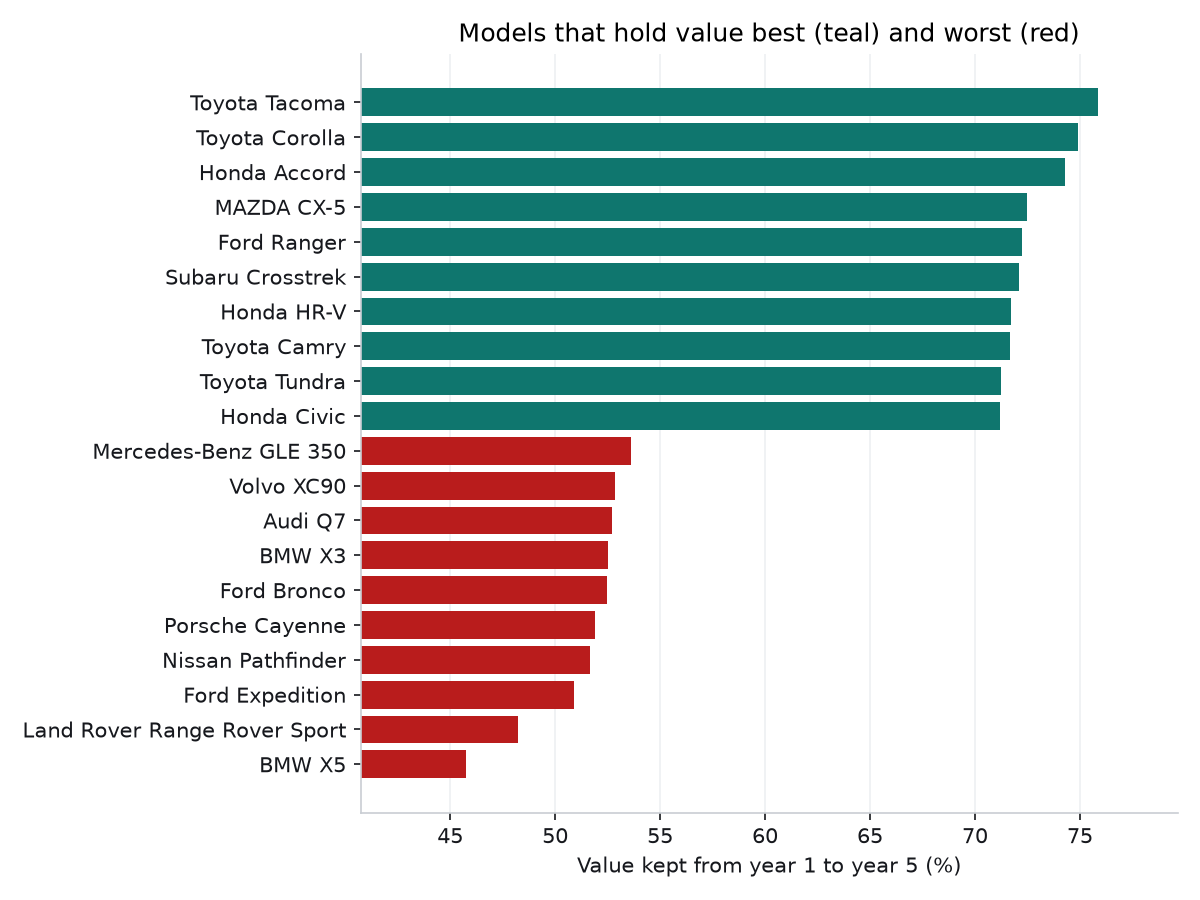
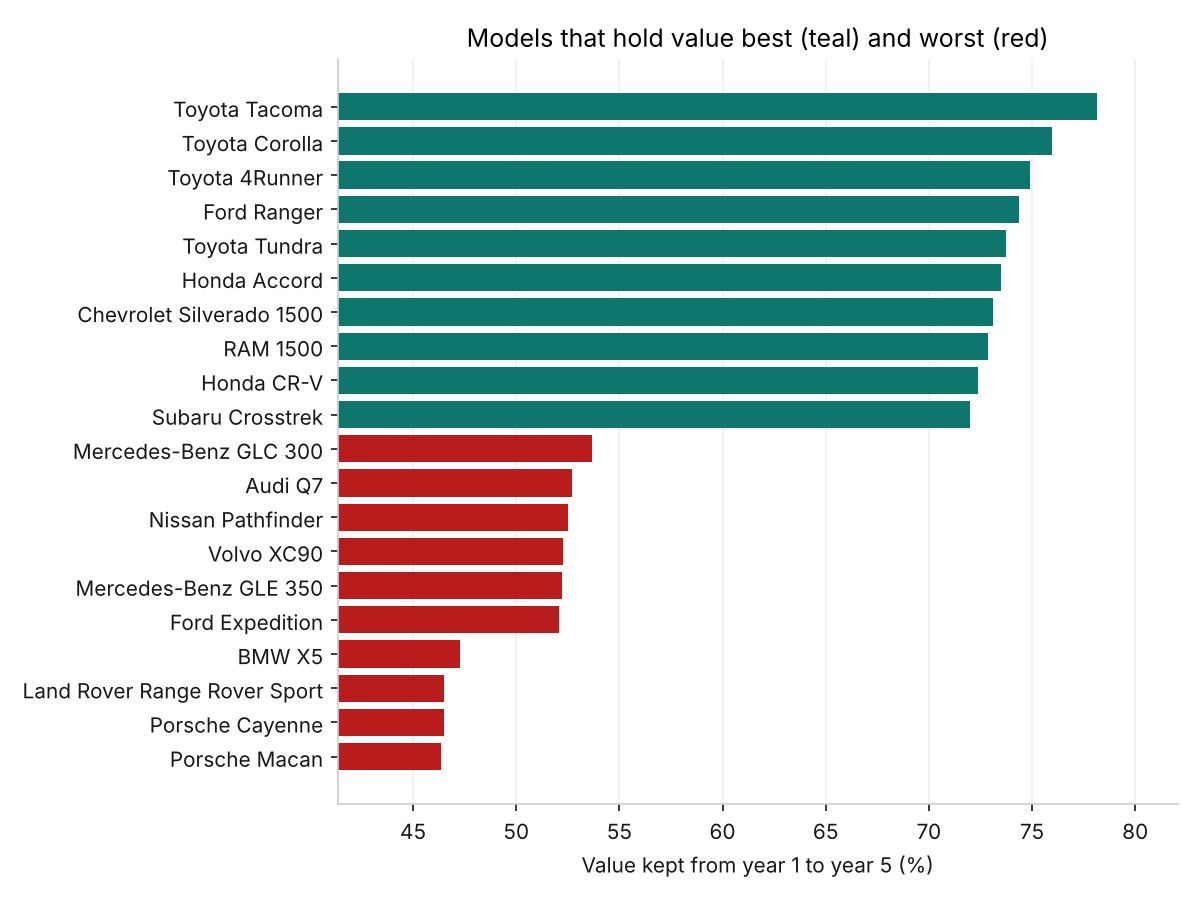
Update findings, charts and README for the trim-level model
Re-ran src.train and src.analyze. Rankings now use each model's most
common trim: Toyota Tacoma, Corolla and 4Runner hold value best; Porsche
Macan and Cayenne lose the most. The gas vs. electric gap shrinks to
about 1 point. README documents --trim and replaces the 'no trim level'
limitation with the remaining trim caveats.

Claude-Session: https://claude.ai/code/session_01EFFq9JD9q8jUQi8YqvmX4s

Changed region(s): [[0.0308, 0.0622, 0.925, 0.9022], [0.3083, 0.9022, 0.9558, 0.9956], [0.37, 0.0311, 0.8942, 0.0622]]

diff --git a/README.md b/README.md
@@ -20,11 +20,12 @@ command-line tool to look up any car.
 - **Buying at the sweet spot cut the yearly cost of ownership roughly in half** for 5 of
   the 6 example models. For a
   Toyota Camry kept 3 years, you'd lose about $4,500/year buying new vs. about
-  $2,200/year buying it 2 years old.
-- **Toyota and Honda hold value best.** Tacoma, Corolla and Accord keep about 75% of
-  their value from year 1 to year 5. **Luxury SUVs lose the most**: a BMW X5 keeps 46%.
-- **Electric cars depreciate a bit faster than gas cars** (60% vs. 62% kept from year 1
-  to 5). Only 14 electric models had enough data, so this one is a weaker signal.
+  $2,400/year buying it 2 years old.
+- **Toyota holds value best.** Tacoma, Corolla and 4Runner keep 75-78% of their
+  value from year 1 to year 5. **Luxury SUVs lose the most**: a Porsche Macan or Cayenne
+  keeps 46%.
+- **Electric cars depreciate about the same as gas cars** (61% vs. 62% kept from year 1
+  to 5). Only 14 electric models had enough data, so this is a weak signal either way.
 
 ![Depreciation curves](reports/figures/example_curves.png)
 
@@ -35,25 +36,35 @@ Full results with all charts: [reports/findings.md](reports/findings.md)
 ## The model
 
 A **gradient boosting** model (scikit-learn `HistGradientBoostingRegressor`) predicts a
-car's market value from its make, model, body style, drivetrain, fuel type, age and mileage.
-Tested on 3,294 cars it never saw during training:
+car's market value from its make, model, trim, body style, drivetrain, fuel type, age and
+mileage. Tested on 3,294 cars it never saw during training:
 
 | Model | Avg error | Median error | R² |
 |---|---|---|---|
 | Median guess (baseline) | $13,862 | 38.4% | -0.05 |
-| Linear regression (baseline) | $4,371 | 9.9% | 0.84 |
-| **Gradient boosting** | **$3,532** | **7.7%** | **0.89** |
+| Linear regression (baseline) | $3,433 | 7.9% | 0.89 |
+| **Gradient boosting** | **$2,542** | **5.6%** | **0.93** |
+
+Adding **trim level** (a base Camry LE vs. a sporty XSE, or an F150 XL vs. a Raptor) cut the
+average error by 28%, from $3,532 to $2,542, and put 47% of estimates inside Kelley Blue
+Book's fair price range, up from 37%.
 
 Design choices:
 - **Predicts log(value)** so errors are measured as percentages, not dollars. A $2,000
   miss matters more on a $10,000 car than on an $80,000 one.
+- **Trim names are shared across brands.** "Limited" or "Platinum" means a well-equipped
+  car at Toyota, Ford or Jeep, so the model learns from all of them. In a side-by-side test
+  this beat treating every model + trim pair as its own category ($2,508 vs. $2,950 average
+  error). Drivetrain and body words are stripped first, so "XLE AWD" and "XLE" are the same
+  trim.
 - **Monotonic constraints:** value can only go *down* as age and mileage go up. Without
   this, noise could make a 6-year-old car "worth more" than a 5-year-old one.
 - **Smoothed curves:** each model's predictions are fit with a constant-percentage
   decline, so random bumps don't decide the sweet spot.
 
 **What matters most** (how much accuracy drops when a column is shuffled): the specific
-model matters most, then age and mileage, with make, drivetrain, body and fuel much smaller.
+model matters most, then age and mileage, then trim, with make, drivetrain, fuel and body
+much smaller.
 
 ### Reality check on a second dataset
 
@@ -75,21 +86,23 @@ The sweet spot is the **first age at which a car starts losing value more slowly
 python -m src.predict Toyota RAV4
 ```
 ```
-Toyota RAV4  (SUV, AWD/4WD, Gas)
-Based on 244 listings, 10,293 miles/year
+Toyota RAV4 XLE  (SUV, AWD/4WD, Gas)
+Based on 244 listings, 101 of them this trim, 10,293 miles/year
+Most common trim shown. Others: LE, XLE Premium, Limited, XSE, SE  (use --trim)
 
  Age     Miles      Value  % of new  Lost that year
-   0         0  $  50,414      100%
-   1    10,293  $  40,233       80%         $10,181
-   2    20,585  $  36,646       73%          $3,587  <- sweet spot
-   3    30,878  $  33,379       66%          $3,267
+   0         0  $  48,078      100%
+   1    10,293  $  38,541       80%          $9,537
+   2    20,585  $  35,315       73%          $3,227  <- sweet spot
+   3    30,878  $  32,358       67%          $2,957
    ...
 Keeping it 3 years, average value lost per year:
-  Buy new:            $5,678/yr
-  Buy 2 years old:    $2,984/yr  (saves $2,694/yr)
+  Buy new:            $5,240/yr
+  Buy 2 years old:    $2,716/yr  (saves $2,524/yr)
 ```
 
-Options: `--hold 5` (years you'll keep it), `--miles 15000` (miles you drive per year).
+Options: `--trim Limited` (a specific trim, default is the most common one),
+`--hold 5` (years you'll keep it), `--miles 15000` (miles you drive per year).
 
 ## Run the pipeline
 
@@ -138,9 +151,11 @@ reports/           Charts, findings and accuracy metrics (generated)
 - **One snapshot in time.** The curves compare *different* cars of different ages listed
   in the same month, not the same car followed over 10 years.
 - **New prices are today's prices.** A 2018 car cost less new than a 2026 one, so
-  long-term depreciation is somewhat overstated. Models with no new listings get an
-  estimated new price based on the typical 20% first-year drop.
-- **No trim level.** A base Camry and a top-trim Camry are treated the same, which is a
-  big source of the remaining error. Adding trim is the next improvement.
+  long-term depreciation is somewhat overstated.
+- **Trim names are messy.** Sellers type them freely ("AWD 2.5 S w/ Preferred Package"),
+  so rare spellings fall into an "Other" group. Rankings and charts use each model's most
+  common trim.
+- **New prices per trim are sparse.** Only 294 trims had new listings. For the rest, the new
+  price is estimated from the car's 1-year-old value and the typical 20% first-year drop.
 - **US data.** The pipeline is built so a different market (for example Ontario
   listings) could be swapped in through `download.py` and `clean.py`.

diff --git a/reports/findings.md b/reports/findings.md
@@ -9,12 +9,12 @@ _Generated by `python -m src.analyze`._
 
 | Car | New price | Sweet spot | Value at 5 yrs | Cost/yr buying new* | Cost/yr at sweet spot* |
 |---|---|---|---|---|---|
-| Toyota Camry | $41,217 | 2 yrs | 57% | $4,464 | $2,227 |
-| Honda CR-V | $38,750 | 5 yrs | 67% | $2,670 | $1,986 |
-| Ford F150 | $73,920 | 3 yrs | 53% | $8,610 | $4,310 |
-| Jeep Wrangler | $58,890 | 1 yr | 47% | $8,429 | $3,411 |
-| Tesla Model Y | $58,713 | 3 yrs | 47% | $7,531 | $3,891 |
-| Ford Mustang Mach-E | $48,549 | 4 yrs | 47% | $6,298 | $2,857 |
+| Toyota Camry | $40,717 | 2 yrs | 56% | $4,487 | $2,355 |
+| Honda CR-V | $38,750 | 6 yrs | 69% | $2,383 | $1,778 |
+| Ford F150 | $62,050 | 2 yrs | 55% | $6,948 | $3,712 |
+| Jeep Wrangler | $54,905 | 1 yr | 47% | $7,950 | $2,900 |
+| Tesla Model Y | $55,892 | 3 yrs | 49% | $7,013 | $3,647 |
+| Ford Mustang Mach-E | $47,616 | 3 yrs | 49% | $5,953 | $3,092 |
 
 _*Average value lost per year when keeping the car for 3 years._
 
@@ -24,16 +24,16 @@ _*Average value lost per year when keeping the car for 3 years._
 
 | Best | Kept yr 1-5 | Worst | Kept yr 1-5 |
 |---|---|---|---|
-| Toyota Tacoma | 76% | BMW X5 | 46% |
-| Toyota Corolla | 75% | Land Rover Range Rover Sport | 48% |
-| Honda Accord | 74% | Ford Expedition | 51% |
-| MAZDA CX-5 | 72% | Nissan Pathfinder | 52% |
-| Ford Ranger | 72% | Porsche Cayenne | 52% |
-| Subaru Crosstrek | 72% | Ford Bronco | 52% |
-| Honda HR-V | 72% | BMW X3 | 53% |
-| Toyota Camry | 72% | Audi Q7 | 53% |
-| Toyota Tundra | 71% | Volvo XC90 | 53% |
-| Honda Civic | 71% | Mercedes-Benz GLE 350 | 54% |
+| Toyota Tacoma | 78% | Porsche Macan | 46% |
+| Toyota Corolla | 76% | Porsche Cayenne | 46% |
+| Toyota 4Runner | 75% | Land Rover Range Rover Sport | 47% |
+| Ford Ranger | 74% | BMW X5 | 47% |
+| Toyota Tundra | 74% | Ford Expedition | 52% |
+| Honda Accord | 73% | Mercedes-Benz GLE 350 | 52% |
+| Chevrolet Silverado 1500 | 73% | Volvo XC90 | 52% |
+| RAM 1500 | 73% | Nissan Pathfinder | 53% |
+| Honda CR-V | 72% | Audi Q7 | 53% |
+| Subaru Crosstrek | 72% | Mercedes-Benz GLC 300 | 54% |
 
 ![Best and worst models](figures/best_worst_models.png)
 
@@ -41,9 +41,9 @@ _*Average value lost per year when keeping the car for 3 years._
 
 | Fuel type | Median value kept yr 1-5 | Models |
 |---|---|---|
-| Gas | 62% | 201 |
-| Electric | 60% | 14 |
-| Hybrid | 59% | 4 |
+| Gas | 62% | 200 |
+| Hybrid | 61% | 5 |
+| Electric | 61% | 14 |
 
 ![Fuel types](figures/fuel_types.png)
 
@@ -56,6 +56,6 @@ _*Average value lost per year when keeping the car for 3 years._
 Tested on **672** cars from a different source (Marketcheck dealer listings). For the **327** whose model was in the training data:
 
 - Median dealer price / model estimate: **1.10** (1.00 would be a perfect match; above 1 means dealers ask more than market value)
-- **52%** of estimates were within 15% of the real asking price
+- **55%** of estimates were within 15% of the real asking price
 
 ![Reality check](figures/reality_check.png)
